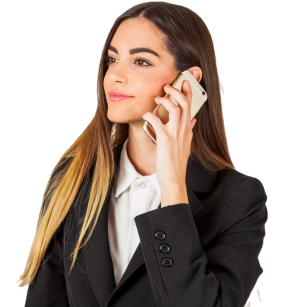
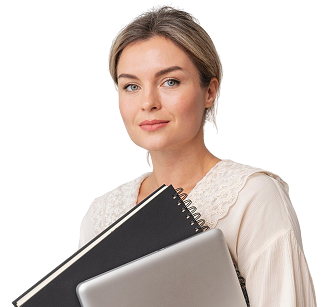
corrected installment-page

diff --git a/src/styles/components/installment.scss b/src/styles/components/installment.scss
@@ -1,11 +1,15 @@
 .installment {
+    @media ($md-up) {
+        margin-bottom: 60px;
+    }
+
     &__subtitle {
         color: var(--grey-color);
         margin-bottom: 24px;
     }
 
     &__consult-btn {
-        width: 288px;
+        width: 219px;
         margin-bottom: 60px;
 
         @media ($sm) {
@@ -14,7 +18,7 @@
     }
 
     &__features {
-        background: var(--secondary-color);
+        background: #E7EDFF;
         display: flex;
         justify-content: space-between;
         padding: 50px 100px;
@@ -48,7 +52,7 @@
     }
 
     &__features-item-text {
-        color: var(--grey-color);
+        color: var(--blue-color-dark);
         margin: 0;
     }
 
@@ -71,38 +75,36 @@
         overflow: hidden;
         padding: 50px;
         border-radius: 15px;
-        background: 
-            var(--body-bg) url('/src/assets/installment-bg.png') repeat left center / auto 100%;
-            
+        background: var(--white-color);
 
             @media ($lg) {
-                background: 
-                    var(--white-color) url('/src/assets/installment-bg-lg.png') repeat right center/ auto 100%;
                 padding: 30px;
             }
 
             @media ($sm) {
-                background-image: url('/src/assets/installment-bg-sm.png');
                 padding: 20px;
             }
+
+        &::after {
+            content: '';
+            position: absolute;
+            bottom: 0;
+            width: 544px;
+            height: 197px;
+            background: url("/src/assets/installment/pc.png");
+            right: 0;
+
+            @media ($md) {
+                background: url("/src/assets/installment/mb.png");
+                width: 330px;
+                height: 232px;
+            }
+        }
 
             h3 {
                 font-size: 1.25rem;
                 font-family: var(--font-title);
             }
-
-            // &::before {
-            //     content: '';
-            //     position: absolute;
-            //     opacity: .1;
-            //     width: 100%;
-            //     height: 100%;
-            //     background: url('/src/assets/block-bg.jpg');
-            //     background-size: 300px;
-            //     bottom: 0;
-            //     left: 0;
-            //     z-index: 1;
-            // }
     }
 
     &__additional-info-labels {
@@ -111,13 +113,15 @@
         margin-bottom: 26px;
         position: relative;
         z-index: 2;
+        width: fit-content;
+        white-space: nowrap;
 
         div {
             color: var(--white-color);
             font-family: var(--font-title);
             font-size: 1rem;
-            padding: 8px;
-            background: var(--primary-color);
+            padding: 8px 16px;
+            background: var(--blue-color);
             border-radius: 7px;
             margin: 0;
             flex: 1;
@@ -125,6 +129,10 @@
             display: flex;
             align-items: center;
             justify-content: center;
+
+            @media ($md) {
+                padding: 8px;
+            }
 
             span {
                 font-size: 1.25rem;
@@ -135,17 +143,21 @@
             margin: 0;
         }
 
-        @media ($md) {
+        @media ($lg) {
             flex-direction: column;
             align-items: flex-start;
         }
     }
 
     &__additional-info-text {
-        background: var(--white-color);
+        background: #D5DFFF;
         padding: 16px;
         border-radius: 10px;
         position: relative;
         z-index: 2;
+
+        @media ($lg-up) {
+            max-width: 700px;
+        }
     }
 }

diff --git a/src/styles/components/manager-woman.scss b/src/styles/components/manager-woman.scss
@@ -3,7 +3,7 @@
     border-radius: 15px;
     background: url('/src/assets/upload/about/question-bg-text.svg') no-repeat
             bottom right,
-        url('/src/assets/upload/about/question-bg.png') no-repeat center/cover;
+        url('/src/assets/upload/about/question-bg.png') no-repeat center/cover, var(--primary-color);
     display: flex;
     flex-direction: column;
     align-items: flex-start;
@@ -16,6 +16,8 @@
         bottom: 0;
         right: 11%;
         z-index: 1;
+        width: 321px;
+        height: 307px;
     }
 
     @media ($lg) {
@@ -27,13 +29,13 @@
             right: 9%;
             background: url('/src/assets/upload/manager-woman.png')
                 no-repeat bottom/contain;
-            width: 225px;
-            height: 248px;
         }
     }
 
     @media ($md) {
         &::after {
+            background: url('/src/assets/upload/manager-woman-mb.png')
+            no-repeat bottom/contain;
             right: 0%;
             width: 190px;
             height: 209px;
@@ -45,6 +47,7 @@
         font-size: 2.5rem;
         line-height: 1;
         margin: 0;
+        font-weight: 700;
 
         @media ($lg) {
             font-size: 1.75rem;
@@ -57,10 +60,16 @@
     }
 
     button {
-        width: 288px;
+        width: 252px;
+        background: var(--white-color);
+        border-color: var(--white-color);
+        color: var(--blue-color);
 
         @media ($md) {
             width: min-content;
+            white-space: nowrap;
+            font-size: 8px;
+            height: 20px;
         }
     }
 }